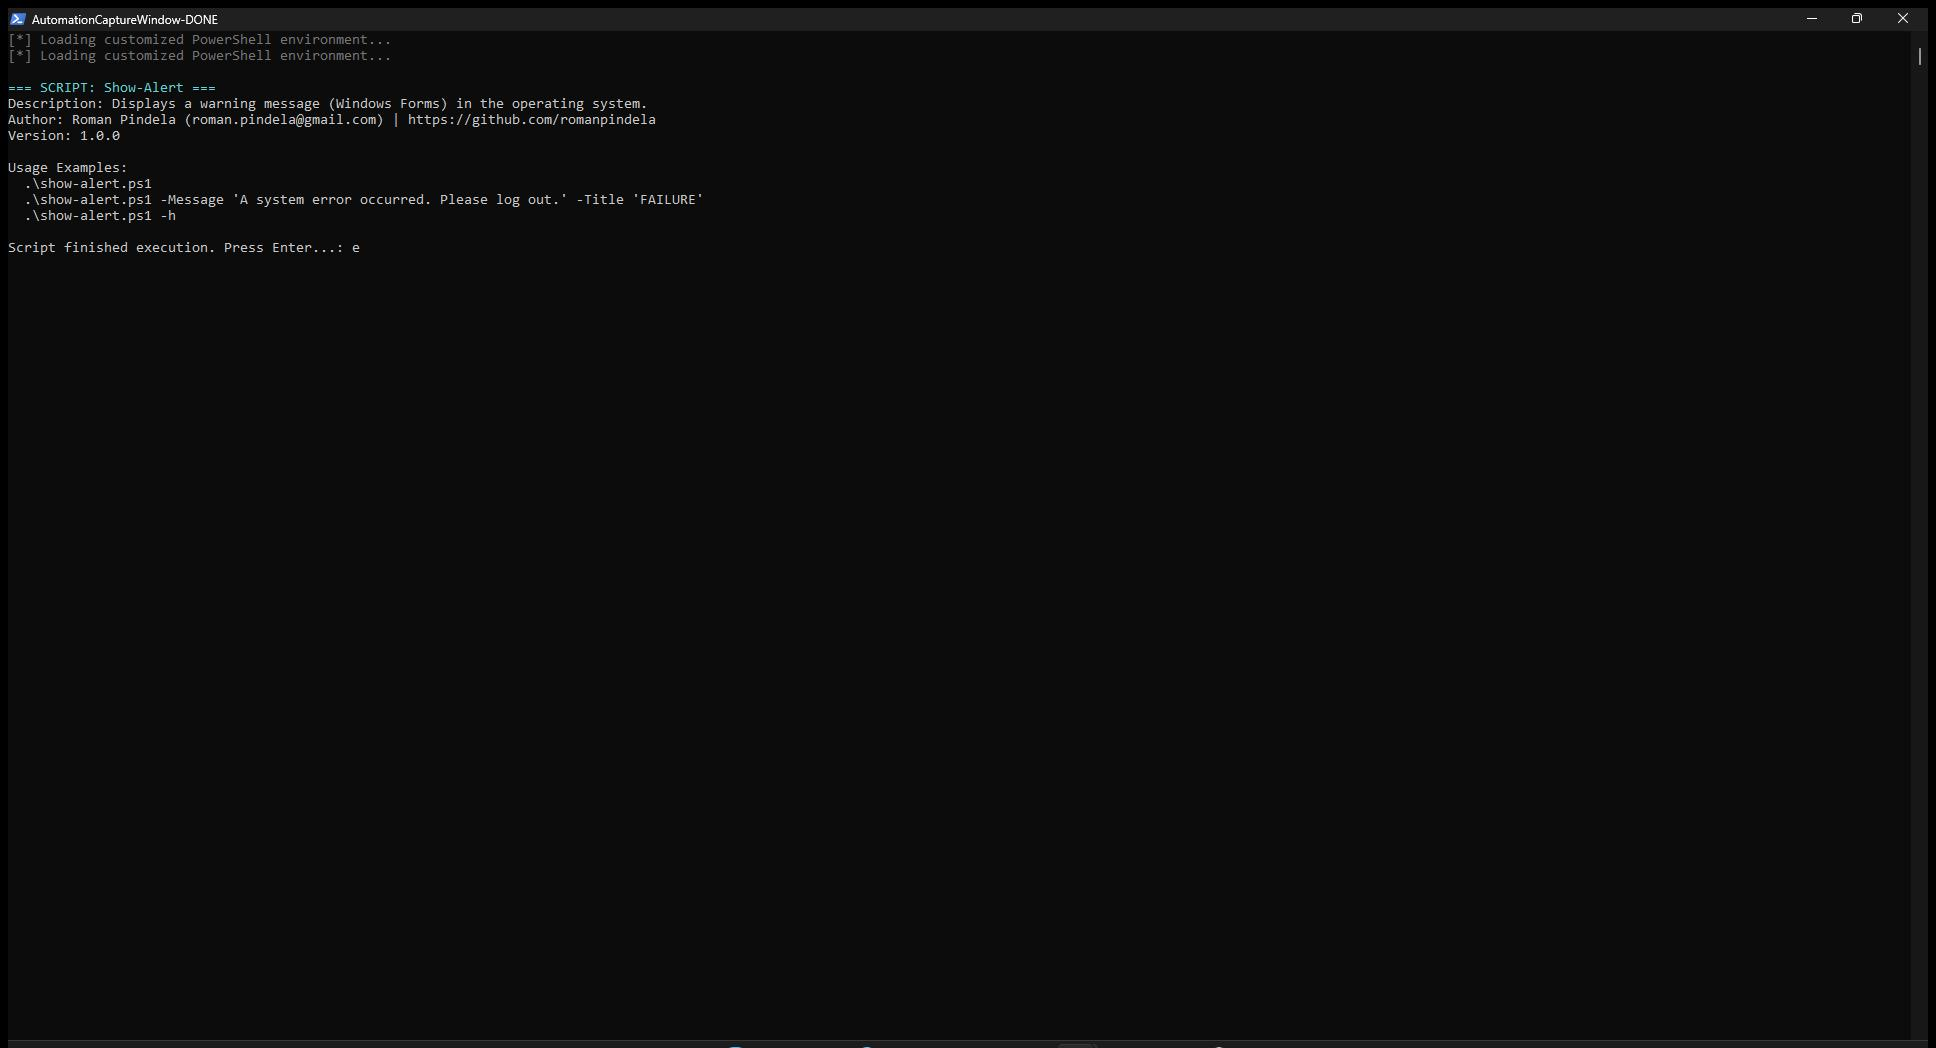
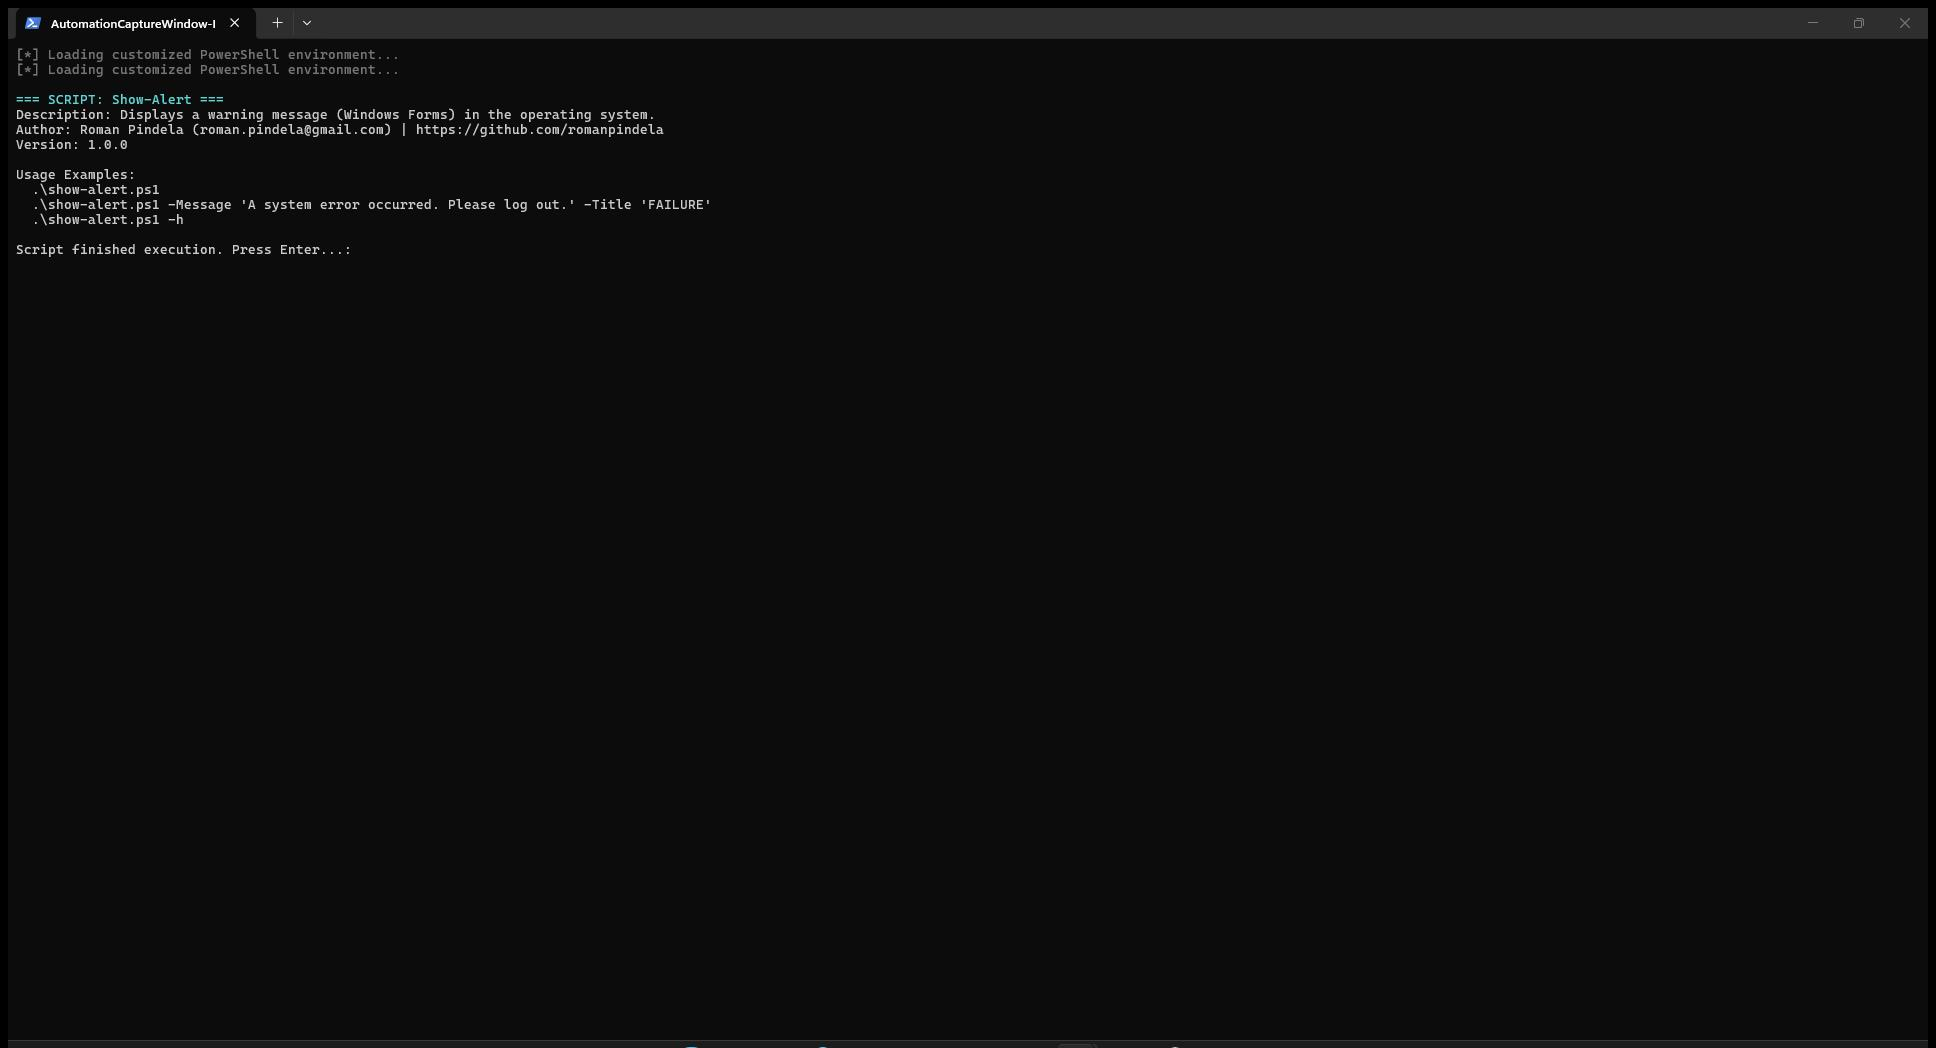
docs: added screenshots.

Changed region(s): [[0.0, 0.0, 0.9917, 0.2443]]

diff --git a/show-alert/README.md b/show-alert/README.md
@@ -38,3 +38,11 @@ By default, when you use `Invoke-Command` to run a script on a remote computer, 
 ```powershell
 .\invoke-interactive-script.ps1 -ComputerName "10.10.1.96" -ScriptPath ".\show-alert.ps1" -ArgumentList '-Message "Please contact the IT Helpdesk immediately." -Title "SECURITY WARNING"'
 ```
+
+## Execution View
+
+### Standard Run
+![Standard Run](assets/screenshot-standard-run.jpg)
+
+### Help Output (-Help)
+![Help Output](assets/screenshot-help.jpg)
